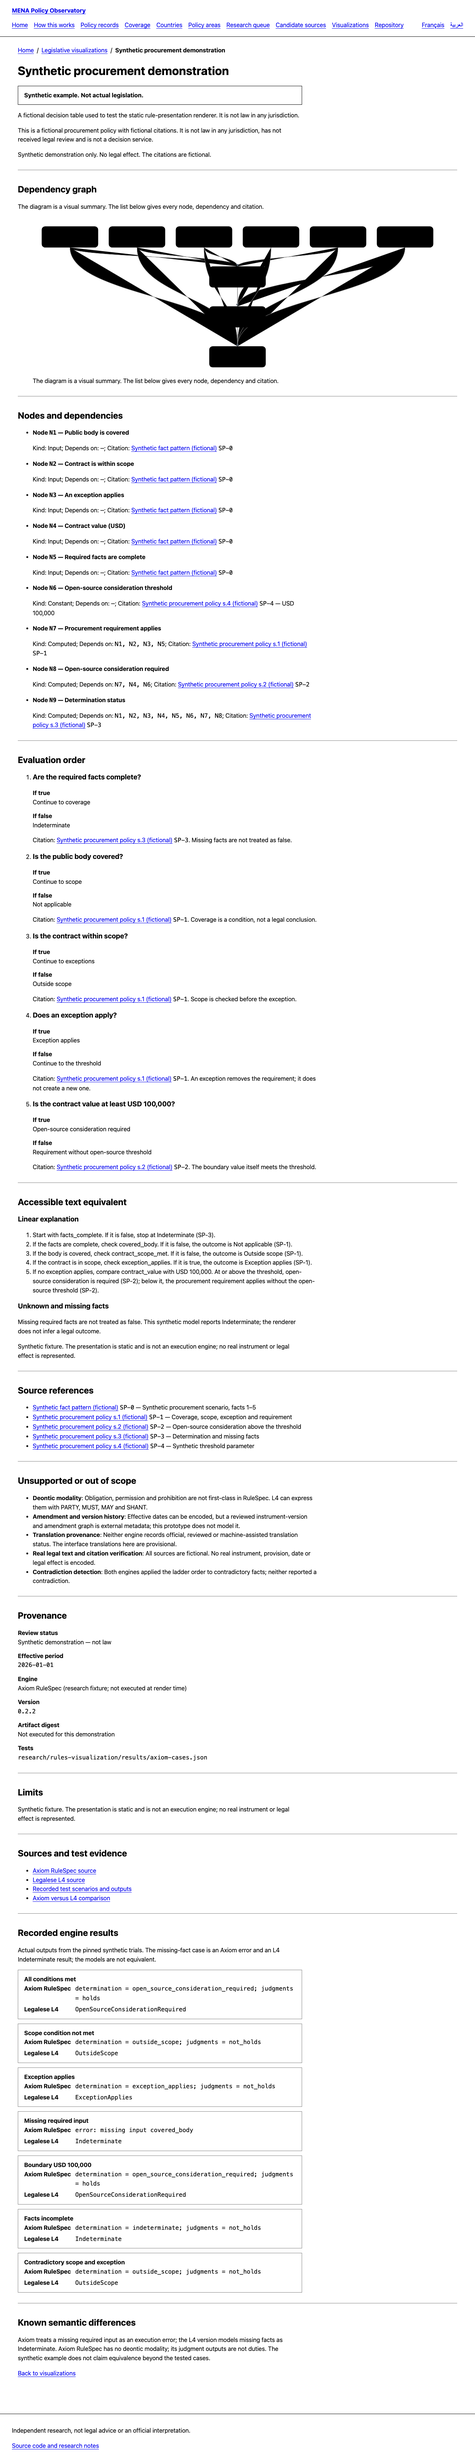
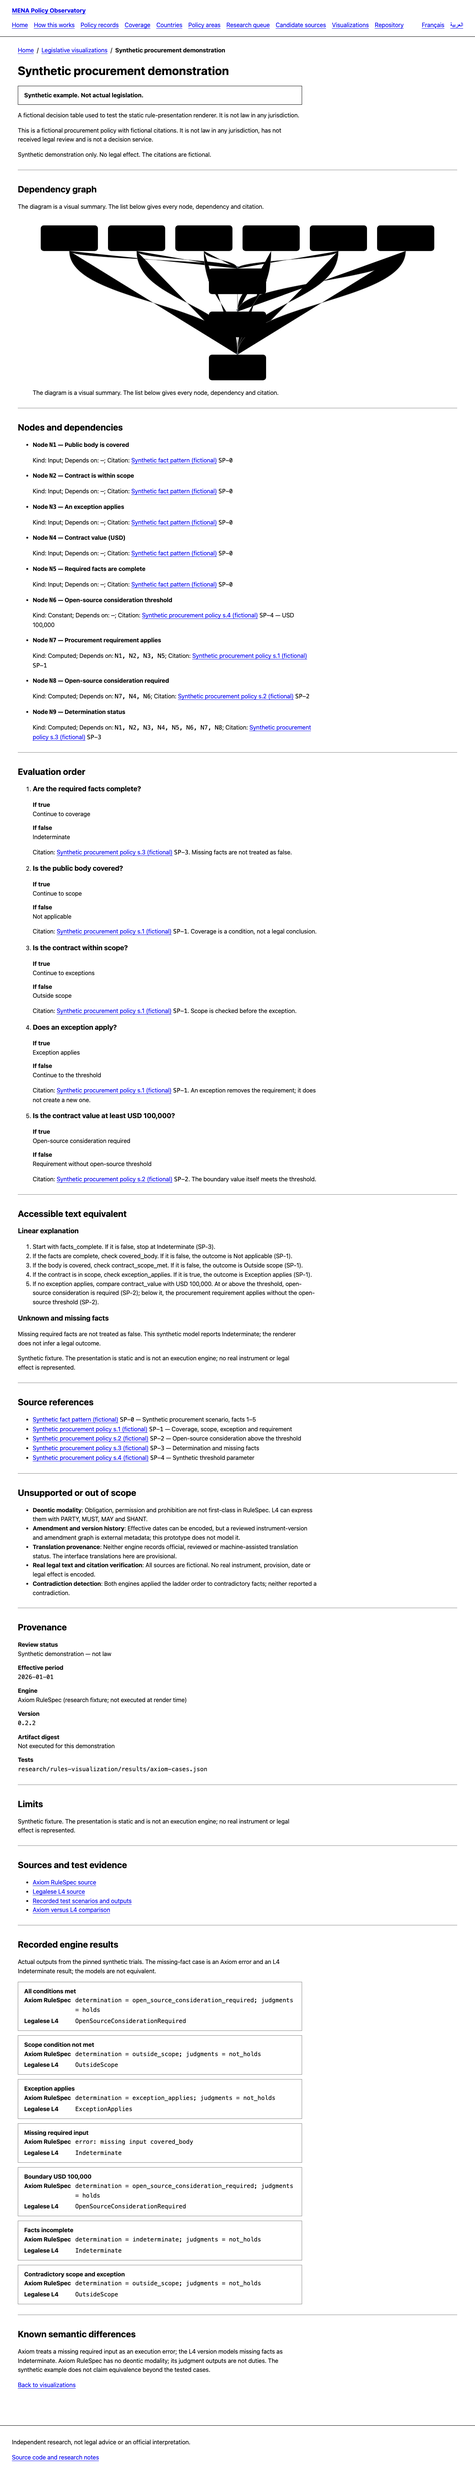
Add readable short labels to the rule dependency graph

Changed region(s): [[0.0312, 0.0, 0.8438, 0.9683], [0.25, 0.3124, 0.2812, 0.3436]]

diff --git a/dist/mena/ar/visualizations/synthetic.html b/dist/mena/ar/visualizations/synthetic.html
@@ -44,12 +44,12 @@
     <h2 id="rule-graph-h">رسم التبعيات</h2>
     <p>الرسم ملخص بصري. وتعرض القائمة أدناه كل عقدة وتبعيتها واستشهادها.</p>
     <figure>
-<svg viewBox="0 0 1088 422" role="img" aria-labelledby="rule-graph-title" aria-describedby="rule-graph-desc" focusable="false">
+<svg viewBox="0 0 1218 508" role="img" aria-labelledby="rule-graph-title" aria-describedby="rule-graph-desc" focusable="false">
   <title id="rule-graph-title">سياسة شراء اصطناعية — رسم التبعيات</title>
   <desc id="rule-graph-desc">الرسم ملخص بصري. وتعرض القائمة أدناه كل عقدة وتبعيتها واستشهادها.</desc>
   <defs><marker id="rule-arrow" viewBox="0 0 10 10" refX="9" refY="5" markerWidth="7" markerHeight="7" orient="auto-start-reverse"><path d="M 0 0 L 10 5 L 0 10 z" fill="#4d5966" /></marker></defs>
-  <path class="edge" d="M 99.0 80.0 C 99.0 105.0, 544.0 105.0, 544.0 130.0" marker-end="url(#rule-arrow)" /><path class="edge" d="M 277.0 80.0 C 277.0 105.0, 544.0 105.0, 544.0 130.0" marker-end="url(#rule-arrow)" /><path class="edge" d="M 455.0 80.0 C 455.0 105.0, 544.0 105.0, 544.0 130.0" marker-end="url(#rule-arrow)" /><path class="edge" d="M 811.0 80.0 C 811.0 105.0, 544.0 105.0, 544.0 130.0" marker-end="url(#rule-arrow)" /><path class="edge" d="M 544.0 186.0 C 544.0 211.0, 544.0 211.0, 544.0 236.0" marker-end="url(#rule-arrow)" /><path class="edge" d="M 633.0 80.0 C 633.0 158.0, 544.0 158.0, 544.0 236.0" marker-end="url(#rule-arrow)" /><path class="edge" d="M 989.0 80.0 C 989.0 158.0, 544.0 158.0, 544.0 236.0" marker-end="url(#rule-arrow)" /><path class="edge" d="M 99.0 80.0 C 99.0 211.0, 544.0 211.0, 544.0 342.0" marker-end="url(#rule-arrow)" /><path class="edge" d="M 277.0 80.0 C 277.0 211.0, 544.0 211.0, 544.0 342.0" marker-end="url(#rule-arrow)" /><path class="edge" d="M 455.0 80.0 C 455.0 211.0, 544.0 211.0, 544.0 342.0" marker-end="url(#rule-arrow)" /><path class="edge" d="M 633.0 80.0 C 633.0 211.0, 544.0 211.0, 544.0 342.0" marker-end="url(#rule-arrow)" /><path class="edge" d="M 811.0 80.0 C 811.0 211.0, 544.0 211.0, 544.0 342.0" marker-end="url(#rule-arrow)" /><path class="edge" d="M 989.0 80.0 C 989.0 211.0, 544.0 211.0, 544.0 342.0" marker-end="url(#rule-arrow)" /><path class="edge" d="M 544.0 186.0 C 544.0 264.0, 544.0 264.0, 544.0 342.0" marker-end="url(#rule-arrow)" /><path class="edge" d="M 544.0 292.0 C 544.0 317.0, 544.0 317.0, 544.0 342.0" marker-end="url(#rule-arrow)" />
-  <g class="node-input"><rect x="24.0" y="24.0" width="150" height="56" rx="9" /><text x="99.0" y="59.0" text-anchor="middle">N1</text></g><g class="node-input"><rect x="202.0" y="24.0" width="150" height="56" rx="9" /><text x="277.0" y="59.0" text-anchor="middle">N2</text></g><g class="node-input"><rect x="380.0" y="24.0" width="150" height="56" rx="9" /><text x="455.0" y="59.0" text-anchor="middle">N3</text></g><g class="node-input"><rect x="558.0" y="24.0" width="150" height="56" rx="9" /><text x="633.0" y="59.0" text-anchor="middle">N4</text></g><g class="node-input"><rect x="736.0" y="24.0" width="150" height="56" rx="9" /><text x="811.0" y="59.0" text-anchor="middle">N5</text></g><g class="node-constant"><rect x="914.0" y="24.0" width="150" height="56" rx="9" /><text x="989.0" y="59.0" text-anchor="middle">N6</text></g><g class="node-computed"><rect x="469.0" y="130.0" width="150" height="56" rx="9" /><text x="544.0" y="165.0" text-anchor="middle">N7</text></g><g class="node-computed"><rect x="469.0" y="236.0" width="150" height="56" rx="9" /><text x="544.0" y="271.0" text-anchor="middle">N8</text></g><g class="node-computed"><rect x="469.0" y="342.0" width="150" height="56" rx="9" /><text x="544.0" y="377.0" text-anchor="middle">N9</text></g>
+  <path class="edge" d="M 109.0 100.0 C 109.0 126.0, 609.0 126.0, 609.0 152.0" marker-end="url(#rule-arrow)" /><path class="edge" d="M 309.0 100.0 C 309.0 126.0, 609.0 126.0, 609.0 152.0" marker-end="url(#rule-arrow)" /><path class="edge" d="M 509.0 100.0 C 509.0 126.0, 609.0 126.0, 609.0 152.0" marker-end="url(#rule-arrow)" /><path class="edge" d="M 909.0 100.0 C 909.0 126.0, 609.0 126.0, 609.0 152.0" marker-end="url(#rule-arrow)" /><path class="edge" d="M 609.0 228.0 C 609.0 254.0, 609.0 254.0, 609.0 280.0" marker-end="url(#rule-arrow)" /><path class="edge" d="M 709.0 100.0 C 709.0 190.0, 609.0 190.0, 609.0 280.0" marker-end="url(#rule-arrow)" /><path class="edge" d="M 1109.0 100.0 C 1109.0 190.0, 609.0 190.0, 609.0 280.0" marker-end="url(#rule-arrow)" /><path class="edge" d="M 109.0 100.0 C 109.0 254.0, 609.0 254.0, 609.0 408.0" marker-end="url(#rule-arrow)" /><path class="edge" d="M 309.0 100.0 C 309.0 254.0, 609.0 254.0, 609.0 408.0" marker-end="url(#rule-arrow)" /><path class="edge" d="M 509.0 100.0 C 509.0 254.0, 609.0 254.0, 609.0 408.0" marker-end="url(#rule-arrow)" /><path class="edge" d="M 709.0 100.0 C 709.0 254.0, 609.0 254.0, 609.0 408.0" marker-end="url(#rule-arrow)" /><path class="edge" d="M 909.0 100.0 C 909.0 254.0, 609.0 254.0, 609.0 408.0" marker-end="url(#rule-arrow)" /><path class="edge" d="M 1109.0 100.0 C 1109.0 254.0, 609.0 254.0, 609.0 408.0" marker-end="url(#rule-arrow)" /><path class="edge" d="M 609.0 228.0 C 609.0 318.0, 609.0 318.0, 609.0 408.0" marker-end="url(#rule-arrow)" /><path class="edge" d="M 609.0 356.0 C 609.0 382.0, 609.0 382.0, 609.0 408.0" marker-end="url(#rule-arrow)" />
+  <g class="node-input"><rect x="24.0" y="24.0" width="170" height="76" rx="9" /><text x="109.0" y="44.0" text-anchor="middle">N1</text><text x="109.0" y="62.0" text-anchor="middle" lang="ar" dir="rtl"><tspan x="109.0" dy="0">الهيئة العامة مشمولة</tspan></text></g><g class="node-input"><rect x="224.0" y="24.0" width="170" height="76" rx="9" /><text x="309.0" y="44.0" text-anchor="middle">N2</text><text x="309.0" y="62.0" text-anchor="middle" lang="ar" dir="rtl"><tspan x="309.0" dy="0">العقد ضمن النطاق</tspan></text></g><g class="node-input"><rect x="424.0" y="24.0" width="170" height="76" rx="9" /><text x="509.0" y="44.0" text-anchor="middle">N3</text><text x="509.0" y="62.0" text-anchor="middle" lang="ar" dir="rtl"><tspan x="509.0" dy="0">ينطبق استثناء</tspan></text></g><g class="node-input"><rect x="624.0" y="24.0" width="170" height="76" rx="9" /><text x="709.0" y="44.0" text-anchor="middle">N4</text><text x="709.0" y="62.0" text-anchor="middle" lang="ar" dir="rtl"><tspan x="709.0" dy="0">قيمة العقد (دولار</tspan><tspan x="709.0" dy="15">أمريكي)</tspan></text></g><g class="node-input"><rect x="824.0" y="24.0" width="170" height="76" rx="9" /><text x="909.0" y="44.0" text-anchor="middle">N5</text><text x="909.0" y="62.0" text-anchor="middle" lang="ar" dir="rtl"><tspan x="909.0" dy="0">الوقائع المطلوبة مكتملة</tspan></text></g><g class="node-constant"><rect x="1024.0" y="24.0" width="170" height="76" rx="9" /><text x="1109.0" y="44.0" text-anchor="middle">N6</text><text x="1109.0" y="62.0" text-anchor="middle" lang="ar" dir="rtl"><tspan x="1109.0" dy="0">حد النظر في البرمجيات</tspan><tspan x="1109.0" dy="15">مفتوحة المصدر</tspan></text></g><g class="node-computed"><rect x="524.0" y="152.0" width="170" height="76" rx="9" /><text x="609.0" y="172.0" text-anchor="middle">N7</text><text x="609.0" y="190.0" text-anchor="middle" lang="ar" dir="rtl"><tspan x="609.0" dy="0">تنطبق متطلبات الشراء</tspan></text></g><g class="node-computed"><rect x="524.0" y="280.0" width="170" height="76" rx="9" /><text x="609.0" y="300.0" text-anchor="middle">N8</text><text x="609.0" y="318.0" text-anchor="middle" lang="ar" dir="rtl"><tspan x="609.0" dy="0">يلزم النظر في البرمجيات</tspan><tspan x="609.0" dy="15">مفتوحة المصدر</tspan></text></g><g class="node-computed"><rect x="524.0" y="408.0" width="170" height="76" rx="9" /><text x="609.0" y="428.0" text-anchor="middle">N9</text><text x="609.0" y="446.0" text-anchor="middle" lang="ar" dir="rtl"><tspan x="609.0" dy="0">حالة التحديد</tspan></text></g>
 </svg><figcaption>الرسم ملخص بصري. وتعرض القائمة أدناه كل عقدة وتبعيتها واستشهادها.</figcaption></figure>
   </section>
 

diff --git a/dist/mena/fr/visualizations/synthetic.html b/dist/mena/fr/visualizations/synthetic.html
@@ -44,12 +44,12 @@
     <h2 id="rule-graph-h">Graphe de dépendances</h2>
     <p>Le schéma est un résumé visuel. La liste ci-dessous donne chaque nœud, sa dépendance et sa citation.</p>
     <figure>
-<svg viewBox="0 0 1088 422" role="img" aria-labelledby="rule-graph-title" aria-describedby="rule-graph-desc" focusable="false">
+<svg viewBox="0 0 1218 508" role="img" aria-labelledby="rule-graph-title" aria-describedby="rule-graph-desc" focusable="false">
   <title id="rule-graph-title">Politique de passation synthétique — Graphe de dépendances</title>
   <desc id="rule-graph-desc">Le schéma est un résumé visuel. La liste ci-dessous donne chaque nœud, sa dépendance et sa citation.</desc>
   <defs><marker id="rule-arrow" viewBox="0 0 10 10" refX="9" refY="5" markerWidth="7" markerHeight="7" orient="auto-start-reverse"><path d="M 0 0 L 10 5 L 0 10 z" fill="#4d5966" /></marker></defs>
-  <path class="edge" d="M 99.0 80.0 C 99.0 105.0, 544.0 105.0, 544.0 130.0" marker-end="url(#rule-arrow)" /><path class="edge" d="M 277.0 80.0 C 277.0 105.0, 544.0 105.0, 544.0 130.0" marker-end="url(#rule-arrow)" /><path class="edge" d="M 455.0 80.0 C 455.0 105.0, 544.0 105.0, 544.0 130.0" marker-end="url(#rule-arrow)" /><path class="edge" d="M 811.0 80.0 C 811.0 105.0, 544.0 105.0, 544.0 130.0" marker-end="url(#rule-arrow)" /><path class="edge" d="M 544.0 186.0 C 544.0 211.0, 544.0 211.0, 544.0 236.0" marker-end="url(#rule-arrow)" /><path class="edge" d="M 633.0 80.0 C 633.0 158.0, 544.0 158.0, 544.0 236.0" marker-end="url(#rule-arrow)" /><path class="edge" d="M 989.0 80.0 C 989.0 158.0, 544.0 158.0, 544.0 236.0" marker-end="url(#rule-arrow)" /><path class="edge" d="M 99.0 80.0 C 99.0 211.0, 544.0 211.0, 544.0 342.0" marker-end="url(#rule-arrow)" /><path class="edge" d="M 277.0 80.0 C 277.0 211.0, 544.0 211.0, 544.0 342.0" marker-end="url(#rule-arrow)" /><path class="edge" d="M 455.0 80.0 C 455.0 211.0, 544.0 211.0, 544.0 342.0" marker-end="url(#rule-arrow)" /><path class="edge" d="M 633.0 80.0 C 633.0 211.0, 544.0 211.0, 544.0 342.0" marker-end="url(#rule-arrow)" /><path class="edge" d="M 811.0 80.0 C 811.0 211.0, 544.0 211.0, 544.0 342.0" marker-end="url(#rule-arrow)" /><path class="edge" d="M 989.0 80.0 C 989.0 211.0, 544.0 211.0, 544.0 342.0" marker-end="url(#rule-arrow)" /><path class="edge" d="M 544.0 186.0 C 544.0 264.0, 544.0 264.0, 544.0 342.0" marker-end="url(#rule-arrow)" /><path class="edge" d="M 544.0 292.0 C 544.0 317.0, 544.0 317.0, 544.0 342.0" marker-end="url(#rule-arrow)" />
-  <g class="node-input"><rect x="24.0" y="24.0" width="150" height="56" rx="9" /><text x="99.0" y="59.0" text-anchor="middle">N1</text></g><g class="node-input"><rect x="202.0" y="24.0" width="150" height="56" rx="9" /><text x="277.0" y="59.0" text-anchor="middle">N2</text></g><g class="node-input"><rect x="380.0" y="24.0" width="150" height="56" rx="9" /><text x="455.0" y="59.0" text-anchor="middle">N3</text></g><g class="node-input"><rect x="558.0" y="24.0" width="150" height="56" rx="9" /><text x="633.0" y="59.0" text-anchor="middle">N4</text></g><g class="node-input"><rect x="736.0" y="24.0" width="150" height="56" rx="9" /><text x="811.0" y="59.0" text-anchor="middle">N5</text></g><g class="node-constant"><rect x="914.0" y="24.0" width="150" height="56" rx="9" /><text x="989.0" y="59.0" text-anchor="middle">N6</text></g><g class="node-computed"><rect x="469.0" y="130.0" width="150" height="56" rx="9" /><text x="544.0" y="165.0" text-anchor="middle">N7</text></g><g class="node-computed"><rect x="469.0" y="236.0" width="150" height="56" rx="9" /><text x="544.0" y="271.0" text-anchor="middle">N8</text></g><g class="node-computed"><rect x="469.0" y="342.0" width="150" height="56" rx="9" /><text x="544.0" y="377.0" text-anchor="middle">N9</text></g>
+  <path class="edge" d="M 109.0 100.0 C 109.0 126.0, 609.0 126.0, 609.0 152.0" marker-end="url(#rule-arrow)" /><path class="edge" d="M 309.0 100.0 C 309.0 126.0, 609.0 126.0, 609.0 152.0" marker-end="url(#rule-arrow)" /><path class="edge" d="M 509.0 100.0 C 509.0 126.0, 609.0 126.0, 609.0 152.0" marker-end="url(#rule-arrow)" /><path class="edge" d="M 909.0 100.0 C 909.0 126.0, 609.0 126.0, 609.0 152.0" marker-end="url(#rule-arrow)" /><path class="edge" d="M 609.0 228.0 C 609.0 254.0, 609.0 254.0, 609.0 280.0" marker-end="url(#rule-arrow)" /><path class="edge" d="M 709.0 100.0 C 709.0 190.0, 609.0 190.0, 609.0 280.0" marker-end="url(#rule-arrow)" /><path class="edge" d="M 1109.0 100.0 C 1109.0 190.0, 609.0 190.0, 609.0 280.0" marker-end="url(#rule-arrow)" /><path class="edge" d="M 109.0 100.0 C 109.0 254.0, 609.0 254.0, 609.0 408.0" marker-end="url(#rule-arrow)" /><path class="edge" d="M 309.0 100.0 C 309.0 254.0, 609.0 254.0, 609.0 408.0" marker-end="url(#rule-arrow)" /><path class="edge" d="M 509.0 100.0 C 509.0 254.0, 609.0 254.0, 609.0 408.0" marker-end="url(#rule-arrow)" /><path class="edge" d="M 709.0 100.0 C 709.0 254.0, 609.0 254.0, 609.0 408.0" marker-end="url(#rule-arrow)" /><path class="edge" d="M 909.0 100.0 C 909.0 254.0, 609.0 254.0, 609.0 408.0" marker-end="url(#rule-arrow)" /><path class="edge" d="M 1109.0 100.0 C 1109.0 254.0, 609.0 254.0, 609.0 408.0" marker-end="url(#rule-arrow)" /><path class="edge" d="M 609.0 228.0 C 609.0 318.0, 609.0 318.0, 609.0 408.0" marker-end="url(#rule-arrow)" /><path class="edge" d="M 609.0 356.0 C 609.0 382.0, 609.0 382.0, 609.0 408.0" marker-end="url(#rule-arrow)" />
+  <g class="node-input"><rect x="24.0" y="24.0" width="170" height="76" rx="9" /><text x="109.0" y="44.0" text-anchor="middle">N1</text><text x="109.0" y="62.0" text-anchor="middle" lang="fr" dir="ltr"><tspan x="109.0" dy="0">L&#x27;organisme public est</tspan><tspan x="109.0" dy="15">visé</tspan></text></g><g class="node-input"><rect x="224.0" y="24.0" width="170" height="76" rx="9" /><text x="309.0" y="44.0" text-anchor="middle">N2</text><text x="309.0" y="62.0" text-anchor="middle" lang="fr" dir="ltr"><tspan x="309.0" dy="0">Le contrat relève du</tspan><tspan x="309.0" dy="15">champ</tspan></text></g><g class="node-input"><rect x="424.0" y="24.0" width="170" height="76" rx="9" /><text x="509.0" y="44.0" text-anchor="middle">N3</text><text x="509.0" y="62.0" text-anchor="middle" lang="fr" dir="ltr"><tspan x="509.0" dy="0">Une exception s&#x27;applique</tspan></text></g><g class="node-input"><rect x="624.0" y="24.0" width="170" height="76" rx="9" /><text x="709.0" y="44.0" text-anchor="middle">N4</text><text x="709.0" y="62.0" text-anchor="middle" lang="fr" dir="ltr"><tspan x="709.0" dy="0">Valeur du contrat (USD)</tspan></text></g><g class="node-input"><rect x="824.0" y="24.0" width="170" height="76" rx="9" /><text x="909.0" y="44.0" text-anchor="middle">N5</text><text x="909.0" y="62.0" text-anchor="middle" lang="fr" dir="ltr"><tspan x="909.0" dy="0">Les faits requis sont</tspan><tspan x="909.0" dy="15">complets</tspan></text></g><g class="node-constant"><rect x="1024.0" y="24.0" width="170" height="76" rx="9" /><text x="1109.0" y="44.0" text-anchor="middle">N6</text><text x="1109.0" y="62.0" text-anchor="middle" lang="fr" dir="ltr"><tspan x="1109.0" dy="0">Seuil d&#x27;examen des</tspan><tspan x="1109.0" dy="15">logiciels libres</tspan></text></g><g class="node-computed"><rect x="524.0" y="152.0" width="170" height="76" rx="9" /><text x="609.0" y="172.0" text-anchor="middle">N7</text><text x="609.0" y="190.0" text-anchor="middle" lang="fr" dir="ltr"><tspan x="609.0" dy="0">L&#x27;exigence de passation</tspan><tspan x="609.0" dy="15">s&#x27;applique</tspan></text></g><g class="node-computed"><rect x="524.0" y="280.0" width="170" height="76" rx="9" /><text x="609.0" y="300.0" text-anchor="middle">N8</text><text x="609.0" y="318.0" text-anchor="middle" lang="fr" dir="ltr"><tspan x="609.0" dy="0">Examen des logiciels</tspan><tspan x="609.0" dy="15">libres requis</tspan></text></g><g class="node-computed"><rect x="524.0" y="408.0" width="170" height="76" rx="9" /><text x="609.0" y="428.0" text-anchor="middle">N9</text><text x="609.0" y="446.0" text-anchor="middle" lang="fr" dir="ltr"><tspan x="609.0" dy="0">Statut de la</tspan><tspan x="609.0" dy="15">détermination</tspan></text></g>
 </svg><figcaption>Le schéma est un résumé visuel. La liste ci-dessous donne chaque nœud, sa dépendance et sa citation.</figcaption></figure>
   </section>
 

diff --git a/dist/mena/en/visualizations/synthetic.html b/dist/mena/en/visualizations/synthetic.html
@@ -44,12 +44,12 @@
     <h2 id="rule-graph-h">Dependency graph</h2>
     <p>The diagram is a visual summary. The list below gives every node, dependency and citation.</p>
     <figure>
-<svg viewBox="0 0 1088 422" role="img" aria-labelledby="rule-graph-title" aria-describedby="rule-graph-desc" focusable="false">
+<svg viewBox="0 0 1218 508" role="img" aria-labelledby="rule-graph-title" aria-describedby="rule-graph-desc" focusable="false">
   <title id="rule-graph-title">Synthetic procurement policy — Dependency graph</title>
   <desc id="rule-graph-desc">The diagram is a visual summary. The list below gives every node, dependency and citation.</desc>
   <defs><marker id="rule-arrow" viewBox="0 0 10 10" refX="9" refY="5" markerWidth="7" markerHeight="7" orient="auto-start-reverse"><path d="M 0 0 L 10 5 L 0 10 z" fill="#4d5966" /></marker></defs>
-  <path class="edge" d="M 99.0 80.0 C 99.0 105.0, 544.0 105.0, 544.0 130.0" marker-end="url(#rule-arrow)" /><path class="edge" d="M 277.0 80.0 C 277.0 105.0, 544.0 105.0, 544.0 130.0" marker-end="url(#rule-arrow)" /><path class="edge" d="M 455.0 80.0 C 455.0 105.0, 544.0 105.0, 544.0 130.0" marker-end="url(#rule-arrow)" /><path class="edge" d="M 811.0 80.0 C 811.0 105.0, 544.0 105.0, 544.0 130.0" marker-end="url(#rule-arrow)" /><path class="edge" d="M 544.0 186.0 C 544.0 211.0, 544.0 211.0, 544.0 236.0" marker-end="url(#rule-arrow)" /><path class="edge" d="M 633.0 80.0 C 633.0 158.0, 544.0 158.0, 544.0 236.0" marker-end="url(#rule-arrow)" /><path class="edge" d="M 989.0 80.0 C 989.0 158.0, 544.0 158.0, 544.0 236.0" marker-end="url(#rule-arrow)" /><path class="edge" d="M 99.0 80.0 C 99.0 211.0, 544.0 211.0, 544.0 342.0" marker-end="url(#rule-arrow)" /><path class="edge" d="M 277.0 80.0 C 277.0 211.0, 544.0 211.0, 544.0 342.0" marker-end="url(#rule-arrow)" /><path class="edge" d="M 455.0 80.0 C 455.0 211.0, 544.0 211.0, 544.0 342.0" marker-end="url(#rule-arrow)" /><path class="edge" d="M 633.0 80.0 C 633.0 211.0, 544.0 211.0, 544.0 342.0" marker-end="url(#rule-arrow)" /><path class="edge" d="M 811.0 80.0 C 811.0 211.0, 544.0 211.0, 544.0 342.0" marker-end="url(#rule-arrow)" /><path class="edge" d="M 989.0 80.0 C 989.0 211.0, 544.0 211.0, 544.0 342.0" marker-end="url(#rule-arrow)" /><path class="edge" d="M 544.0 186.0 C 544.0 264.0, 544.0 264.0, 544.0 342.0" marker-end="url(#rule-arrow)" /><path class="edge" d="M 544.0 292.0 C 544.0 317.0, 544.0 317.0, 544.0 342.0" marker-end="url(#rule-arrow)" />
-  <g class="node-input"><rect x="24.0" y="24.0" width="150" height="56" rx="9" /><text x="99.0" y="59.0" text-anchor="middle">N1</text></g><g class="node-input"><rect x="202.0" y="24.0" width="150" height="56" rx="9" /><text x="277.0" y="59.0" text-anchor="middle">N2</text></g><g class="node-input"><rect x="380.0" y="24.0" width="150" height="56" rx="9" /><text x="455.0" y="59.0" text-anchor="middle">N3</text></g><g class="node-input"><rect x="558.0" y="24.0" width="150" height="56" rx="9" /><text x="633.0" y="59.0" text-anchor="middle">N4</text></g><g class="node-input"><rect x="736.0" y="24.0" width="150" height="56" rx="9" /><text x="811.0" y="59.0" text-anchor="middle">N5</text></g><g class="node-constant"><rect x="914.0" y="24.0" width="150" height="56" rx="9" /><text x="989.0" y="59.0" text-anchor="middle">N6</text></g><g class="node-computed"><rect x="469.0" y="130.0" width="150" height="56" rx="9" /><text x="544.0" y="165.0" text-anchor="middle">N7</text></g><g class="node-computed"><rect x="469.0" y="236.0" width="150" height="56" rx="9" /><text x="544.0" y="271.0" text-anchor="middle">N8</text></g><g class="node-computed"><rect x="469.0" y="342.0" width="150" height="56" rx="9" /><text x="544.0" y="377.0" text-anchor="middle">N9</text></g>
+  <path class="edge" d="M 109.0 100.0 C 109.0 126.0, 609.0 126.0, 609.0 152.0" marker-end="url(#rule-arrow)" /><path class="edge" d="M 309.0 100.0 C 309.0 126.0, 609.0 126.0, 609.0 152.0" marker-end="url(#rule-arrow)" /><path class="edge" d="M 509.0 100.0 C 509.0 126.0, 609.0 126.0, 609.0 152.0" marker-end="url(#rule-arrow)" /><path class="edge" d="M 909.0 100.0 C 909.0 126.0, 609.0 126.0, 609.0 152.0" marker-end="url(#rule-arrow)" /><path class="edge" d="M 609.0 228.0 C 609.0 254.0, 609.0 254.0, 609.0 280.0" marker-end="url(#rule-arrow)" /><path class="edge" d="M 709.0 100.0 C 709.0 190.0, 609.0 190.0, 609.0 280.0" marker-end="url(#rule-arrow)" /><path class="edge" d="M 1109.0 100.0 C 1109.0 190.0, 609.0 190.0, 609.0 280.0" marker-end="url(#rule-arrow)" /><path class="edge" d="M 109.0 100.0 C 109.0 254.0, 609.0 254.0, 609.0 408.0" marker-end="url(#rule-arrow)" /><path class="edge" d="M 309.0 100.0 C 309.0 254.0, 609.0 254.0, 609.0 408.0" marker-end="url(#rule-arrow)" /><path class="edge" d="M 509.0 100.0 C 509.0 254.0, 609.0 254.0, 609.0 408.0" marker-end="url(#rule-arrow)" /><path class="edge" d="M 709.0 100.0 C 709.0 254.0, 609.0 254.0, 609.0 408.0" marker-end="url(#rule-arrow)" /><path class="edge" d="M 909.0 100.0 C 909.0 254.0, 609.0 254.0, 609.0 408.0" marker-end="url(#rule-arrow)" /><path class="edge" d="M 1109.0 100.0 C 1109.0 254.0, 609.0 254.0, 609.0 408.0" marker-end="url(#rule-arrow)" /><path class="edge" d="M 609.0 228.0 C 609.0 318.0, 609.0 318.0, 609.0 408.0" marker-end="url(#rule-arrow)" /><path class="edge" d="M 609.0 356.0 C 609.0 382.0, 609.0 382.0, 609.0 408.0" marker-end="url(#rule-arrow)" />
+  <g class="node-input"><rect x="24.0" y="24.0" width="170" height="76" rx="9" /><text x="109.0" y="44.0" text-anchor="middle">N1</text><text x="109.0" y="62.0" text-anchor="middle" lang="en" dir="ltr"><tspan x="109.0" dy="0">Public body is covered</tspan></text></g><g class="node-input"><rect x="224.0" y="24.0" width="170" height="76" rx="9" /><text x="309.0" y="44.0" text-anchor="middle">N2</text><text x="309.0" y="62.0" text-anchor="middle" lang="en" dir="ltr"><tspan x="309.0" dy="0">Contract is within scope</tspan></text></g><g class="node-input"><rect x="424.0" y="24.0" width="170" height="76" rx="9" /><text x="509.0" y="44.0" text-anchor="middle">N3</text><text x="509.0" y="62.0" text-anchor="middle" lang="en" dir="ltr"><tspan x="509.0" dy="0">An exception applies</tspan></text></g><g class="node-input"><rect x="624.0" y="24.0" width="170" height="76" rx="9" /><text x="709.0" y="44.0" text-anchor="middle">N4</text><text x="709.0" y="62.0" text-anchor="middle" lang="en" dir="ltr"><tspan x="709.0" dy="0">Contract value (USD)</tspan></text></g><g class="node-input"><rect x="824.0" y="24.0" width="170" height="76" rx="9" /><text x="909.0" y="44.0" text-anchor="middle">N5</text><text x="909.0" y="62.0" text-anchor="middle" lang="en" dir="ltr"><tspan x="909.0" dy="0">Required facts are</tspan><tspan x="909.0" dy="15">complete</tspan></text></g><g class="node-constant"><rect x="1024.0" y="24.0" width="170" height="76" rx="9" /><text x="1109.0" y="44.0" text-anchor="middle">N6</text><text x="1109.0" y="62.0" text-anchor="middle" lang="en" dir="ltr"><tspan x="1109.0" dy="0">Open-source</tspan><tspan x="1109.0" dy="15">consideration threshold</tspan></text></g><g class="node-computed"><rect x="524.0" y="152.0" width="170" height="76" rx="9" /><text x="609.0" y="172.0" text-anchor="middle">N7</text><text x="609.0" y="190.0" text-anchor="middle" lang="en" dir="ltr"><tspan x="609.0" dy="0">Procurement requirement</tspan><tspan x="609.0" dy="15">applies</tspan></text></g><g class="node-computed"><rect x="524.0" y="280.0" width="170" height="76" rx="9" /><text x="609.0" y="300.0" text-anchor="middle">N8</text><text x="609.0" y="318.0" text-anchor="middle" lang="en" dir="ltr"><tspan x="609.0" dy="0">Open-source</tspan><tspan x="609.0" dy="15">consideration required</tspan></text></g><g class="node-computed"><rect x="524.0" y="408.0" width="170" height="76" rx="9" /><text x="609.0" y="428.0" text-anchor="middle">N9</text><text x="609.0" y="446.0" text-anchor="middle" lang="en" dir="ltr"><tspan x="609.0" dy="0">Determination status</tspan></text></g>
 </svg><figcaption>The diagram is a visual summary. The list below gives every node, dependency and citation.</figcaption></figure>
   </section>
 

diff --git a/framework/rule_presentation.py b/framework/rule_presentation.py
@@ -16,6 +16,7 @@ import html
 import json
 import re
 import sys
+import textwrap
 from datetime import date
 from pathlib import Path
 
@@ -569,8 +570,8 @@ def _svg(data: dict, lang: str, strings: dict) -> str:
     layers: dict[int, list[dict]] = {}
     for node in data['nodes']:
         layers.setdefault(depth[node['id']], []).append(node)
-    width, height = 150, 56
-    gap_x, gap_y, margin = 28, 50, 24
+    width, height = 170, 76
+    gap_x, gap_y, margin = 30, 52, 24
     counts = {level: len(items) for level, items in layers.items()}
     view_width = max(counts.values()) * width + (max(counts.values()) - 1) * gap_x + margin * 2
     view_height = (max(layers) + 1) * height + max(layers) * gap_y + margin * 2
@@ -594,9 +595,17 @@ def _svg(data: dict, lang: str, strings: dict) -> str:
     for node in data['nodes']:
         x, y = positions[node['id']]
         cls = {'input': 'node-input', 'constant': 'node-constant', 'computed': 'node-computed'}[node['kind']]
+        label, used = _resolve(node.get('label'), lang)
+        lines = textwrap.wrap(label, width=24)[:2]
+        if len(textwrap.wrap(label, width=24)) > 2:
+            lines[-1] = lines[-1][:23] + '…'
+        label_spans = ''.join(
+            f'<tspan x="{x + width / 2:.1f}" dy="{0 if index == 0 else 15}">{_esc(line)}</tspan>'
+            for index, line in enumerate(lines or ['']))
         shapes.append(
             f'<g class="{cls}"><rect x="{x:.1f}" y="{y:.1f}" width="{width}" height="{height}" rx="9" />'
-            f'<text x="{x + width / 2:.1f}" y="{y + 35:.1f}" text-anchor="middle">{_esc(node["id"])}</text></g>')
+            f'<text x="{x + width / 2:.1f}" y="{y + 20:.1f}" text-anchor="middle">{_esc(node["id"])}</text>'
+            f'<text x="{x + width / 2:.1f}" y="{y + 38:.1f}" text-anchor="middle" lang="{used}" dir="{DIRECTIONS.get(used, "ltr")}">{label_spans}</text></g>')
     title = f"{_text_raw(data['title'], lang)} — {strings['rule.presentation.graph']}"
     return f"""
 <svg viewBox="0 0 {view_width:.0f} {view_height:.0f}" role="img" aria-labelledby="rule-graph-title" aria-describedby="rule-graph-desc" focusable="false">

diff --git a/docs/RULE-PRESENTATION.md b/docs/RULE-PRESENTATION.md
@@ -55,7 +55,7 @@ When a locale lacks a language expression, the renderer falls back to the first 
 
 The page contains:
 
-1. a dependency graph: inline SVG with a unique title/description, numbered nodes and edges; no canvas, drag or pointer-only content;
+1. a dependency graph: inline SVG with a unique title/description, numbered nodes with wrapped short labels and edges; no canvas, drag or pointer-only content; full labels remain in the node list;
 2. a node list with every label, kind, dependency and source citation — the accessible equivalent of the graph;
 3. an ordered ladder with every condition and both branches;
 4. the complete linear explanation, unknown-state text and limits;
